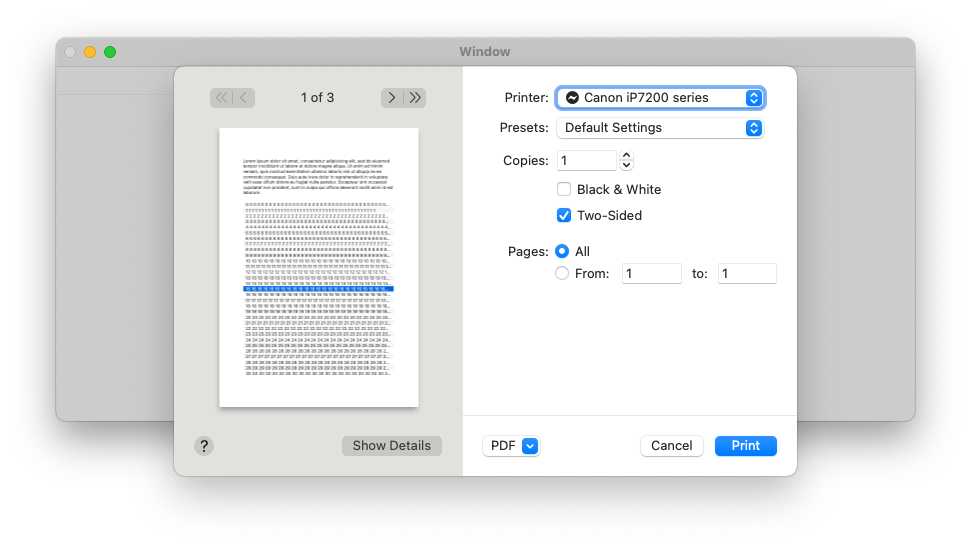
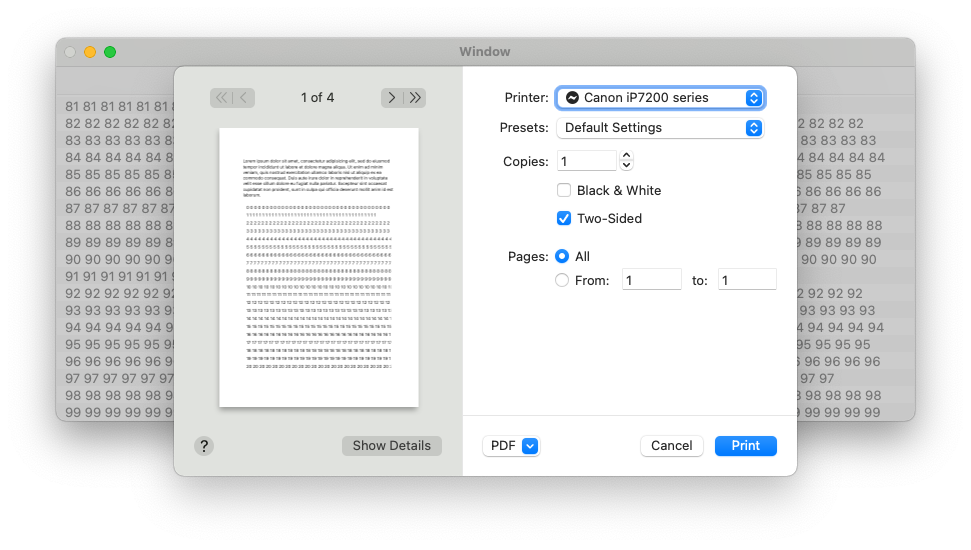
add PDF result picture

diff --git a/README.md b/README.md
@@ -4,7 +4,12 @@ This is a demo project so you can check out how printing a table could work.
 
 The goal here is to show tabular data on screen, and add text for print-outs.
 
-![Screenshot of the print dialog](assets/screenshot.png)
+<table>
+<tr>
+<td><a href="assets/screenshot.png"><img src="assets/screenshot.png" alt="Screenshot of the print dialog"></a><br><small>Print dialog</small></td>
+<td><a href="assets/printout.png"><img src="assets/printout.png" alt="Screenshot Preview.app showing the print result"></a><br><small>PDF result</small></td>
+</tr>
+</table>
 
 ## Discussion
 
